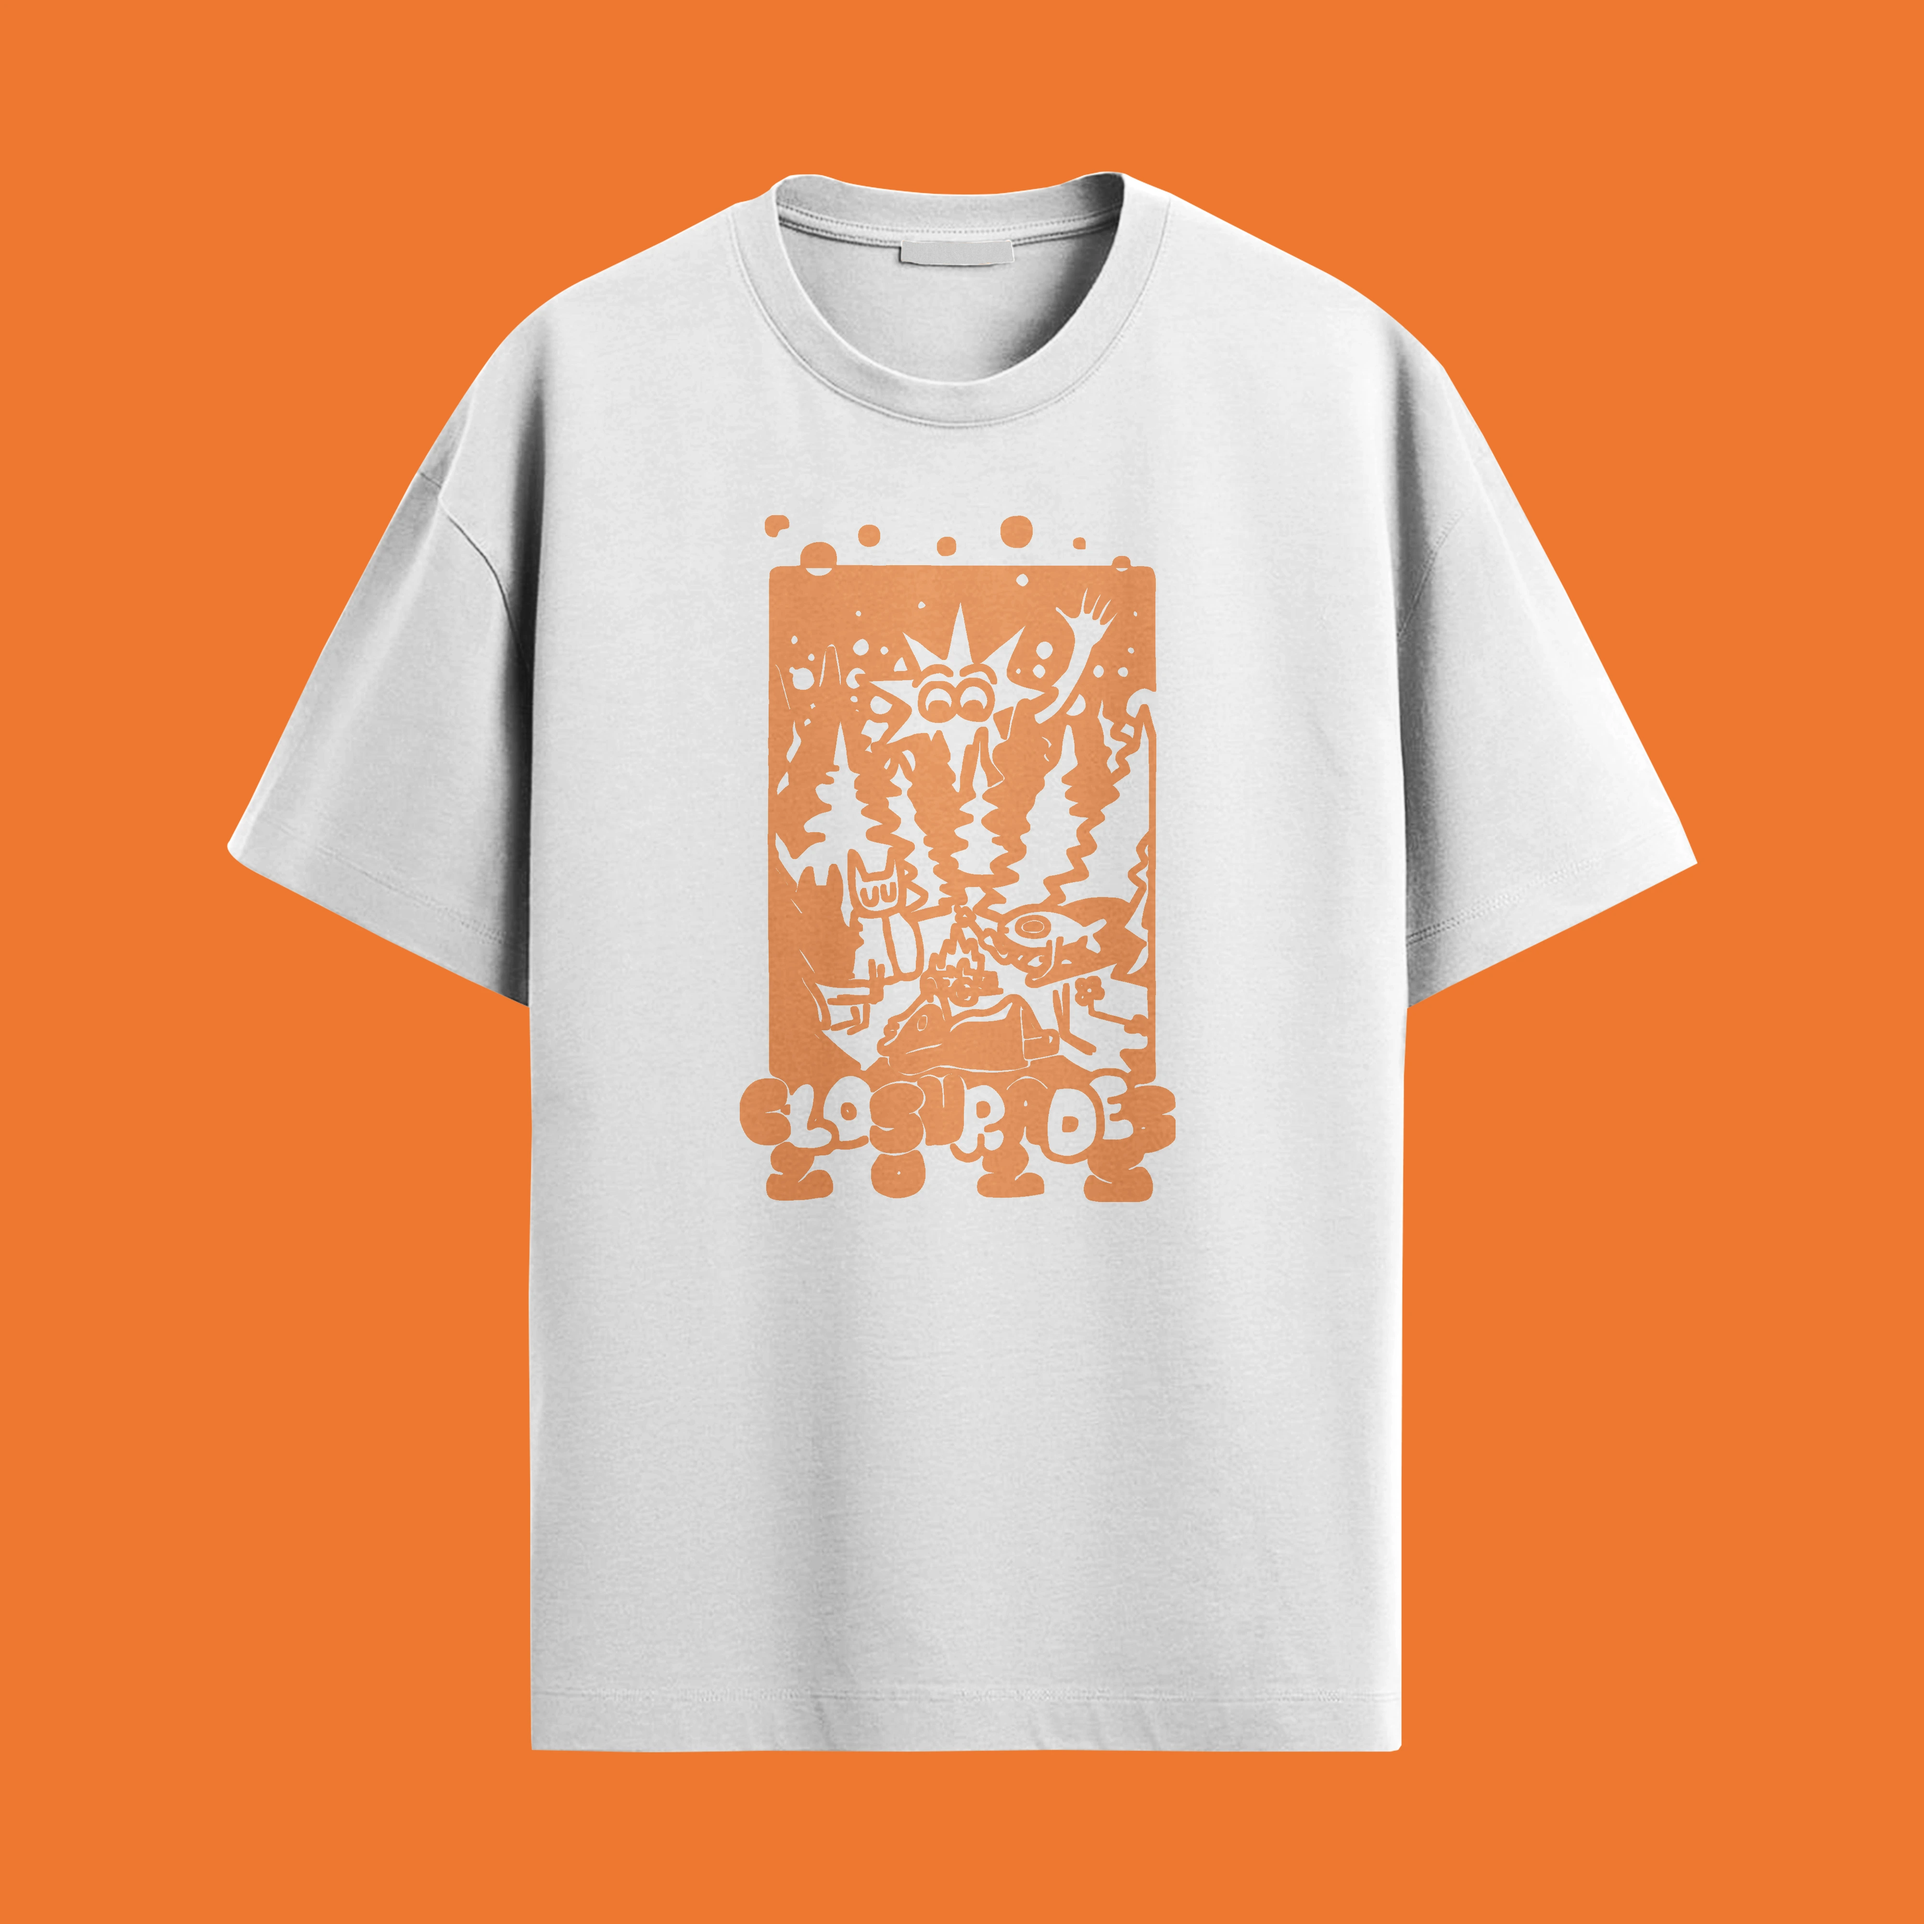
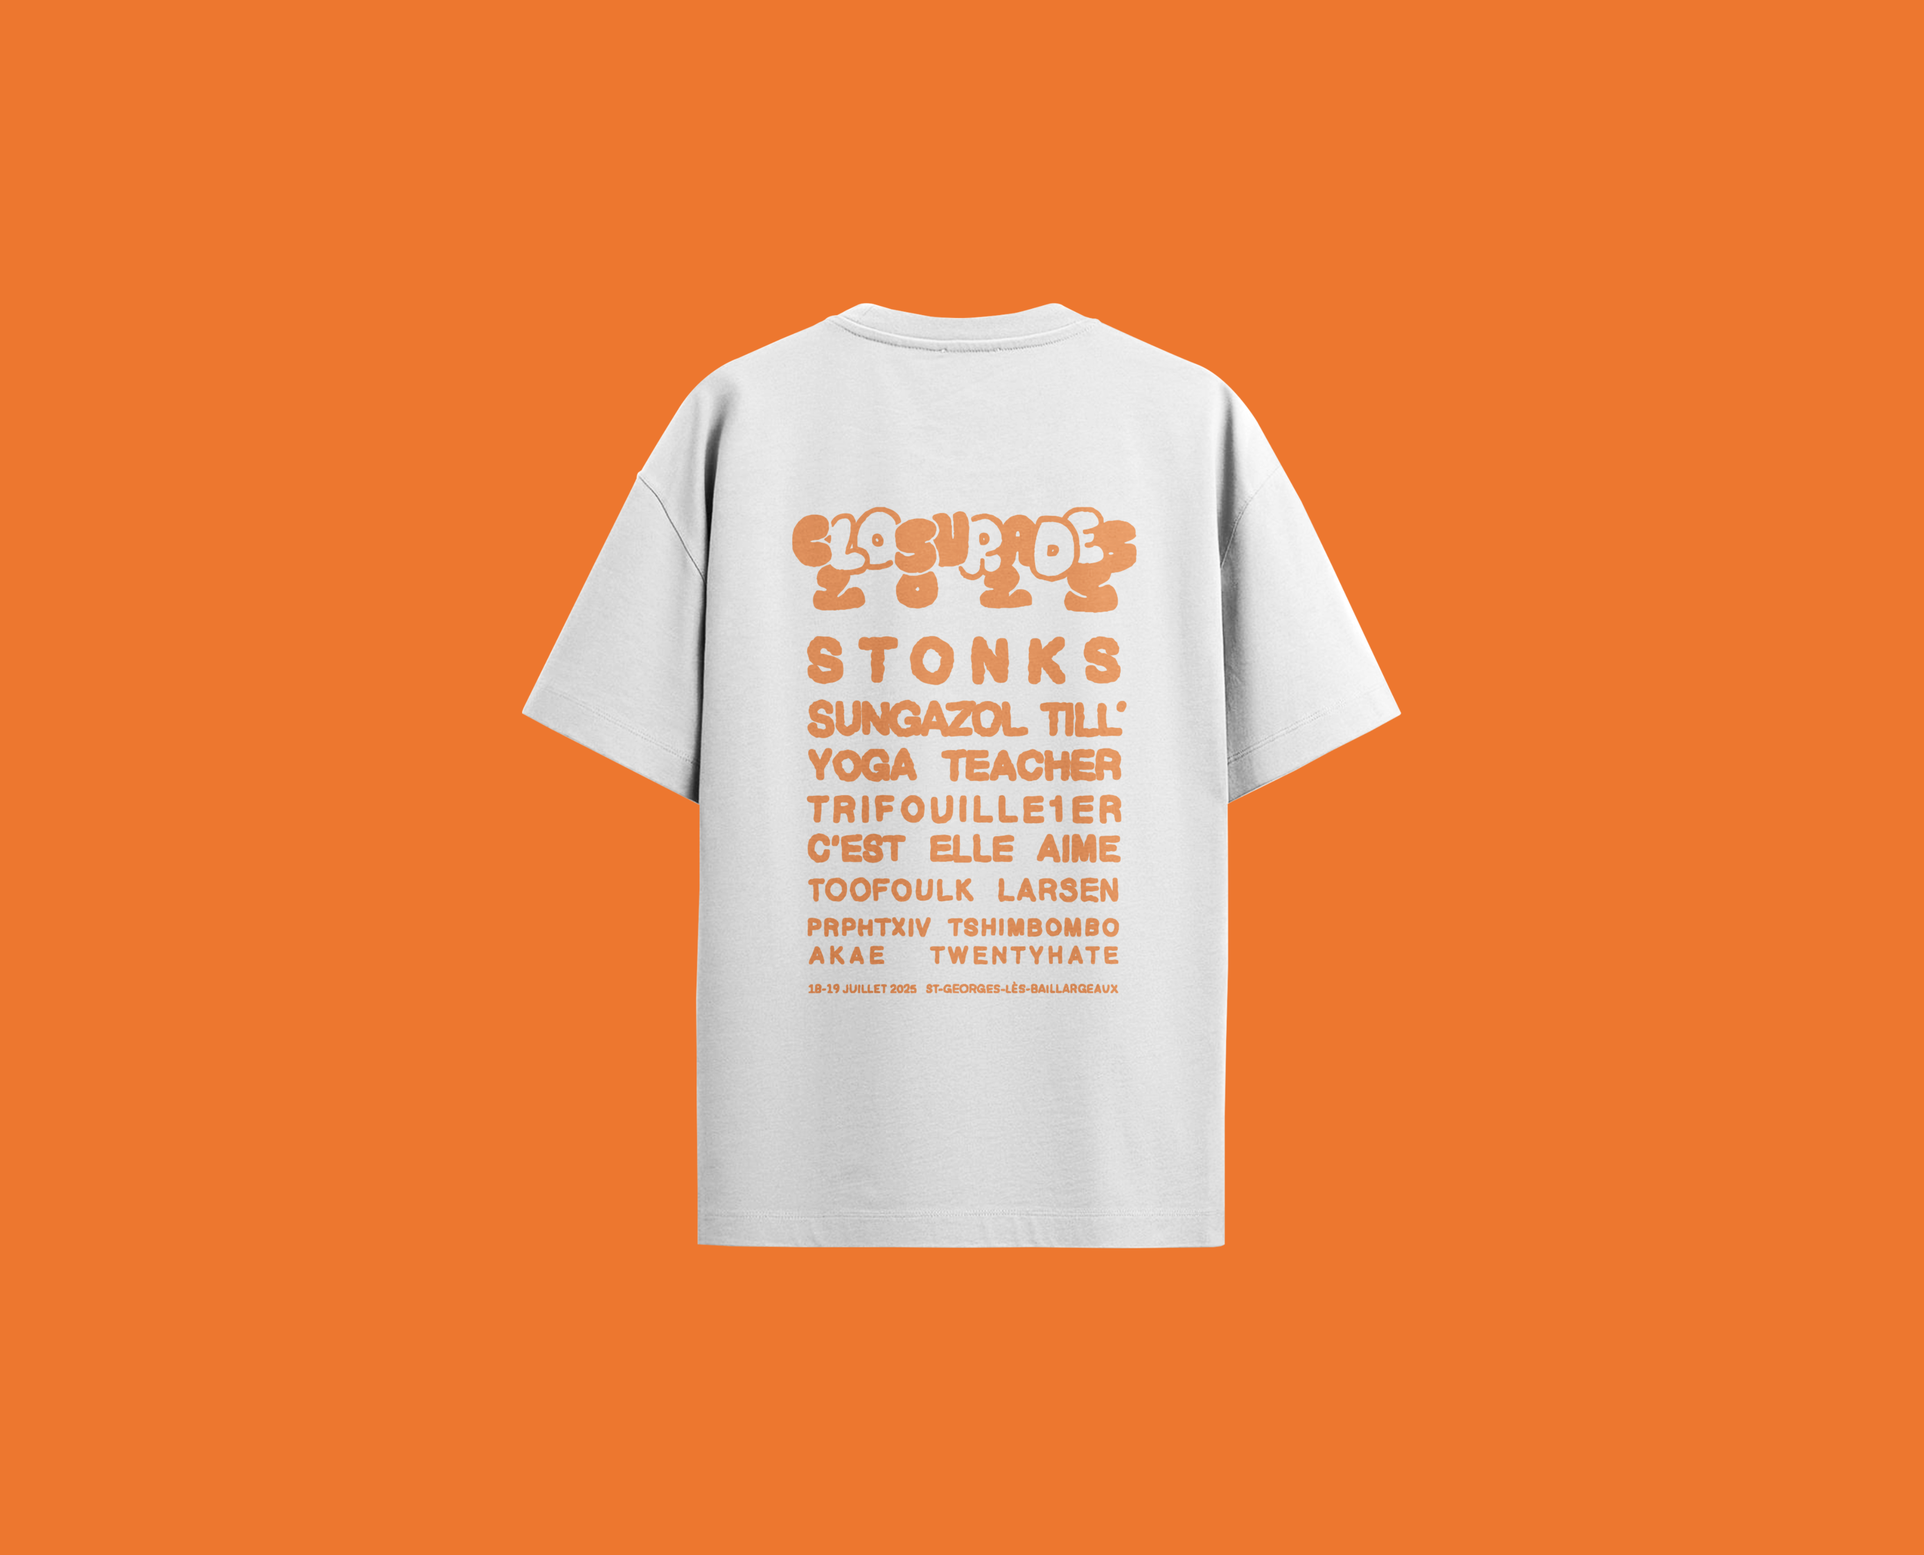
Update merchandise images in Merch component: replace default t-shirt image with new designs for bleu, orange, and vert variants, and enhance image display properties for better visual presentation.

Changed region(s): [[0.125, 0.0625, 0.875, 0.9375]]

diff --git a/src/app/components/features/Merch.tsx b/src/app/components/features/Merch.tsx
@@ -26,7 +26,7 @@ export default function Merch() {
         {
             id: 1,
             name: "T-shirt Closurades 2025",
-            image: "/merch/mockup.png", // Image par défaut
+            image: "/merch/tshirt2025-bleu-front.webp", // Image par défaut
             description: "T-shirt exclusif avec notre logo 2025",
             isShirt: true,
             colors: ["bleu", "orange", "vert"],
@@ -210,7 +210,7 @@ export default function Merch() {
                 {products.map((product) => (
                     <div 
                         key={product.id} 
-                        className="bg-white rounded-xl shadow-lg overflow-hidden transform transition-all duration-300 hover:scale-[1.02] hover:shadow-xl border border-gray-100"
+                        className="bg-white rounded-xl shadow-lg overflow-hidden transform transition-all duration-300 hover:scale-[1.02] hover:shadow-xl border border-gray-100 group"
                     >
                         <div className="relative bg-white overflow-hidden" style={{ height: "480px" }}>
                             {product.isShirt && product.views?.includes("back") && (
@@ -225,7 +225,7 @@ export default function Merch() {
                                 </div>
                             )}
                             
-                            <div className="w-full h-full flex items-center justify-center">
+                            <div className="w-full h-full flex items-center justify-center overflow-hidden">
                                 {loadingStates[product.id] && (
                                     <div className="absolute inset-0 flex items-center justify-center bg-white/80 z-10">
                                         <Loader2 size={40} className="animate-spin text-gray-700" />
@@ -236,7 +236,7 @@ export default function Merch() {
                                     alt={product.name} 
                                     width={900}
                                     height={900}
-                                    className="w-full h-full object-contain md:object-fill transition-all duration-500 hover:scale-110"
+                                    className="w-full h-full object-cover md:object-contain transition-all duration-500 group-hover:scale-105"
                                     priority={product.id <= 2}
                                     onLoadingComplete={() => handleImageLoad(product.id)}
                                     onLoad={() => handleImageLoad(product.id)}
